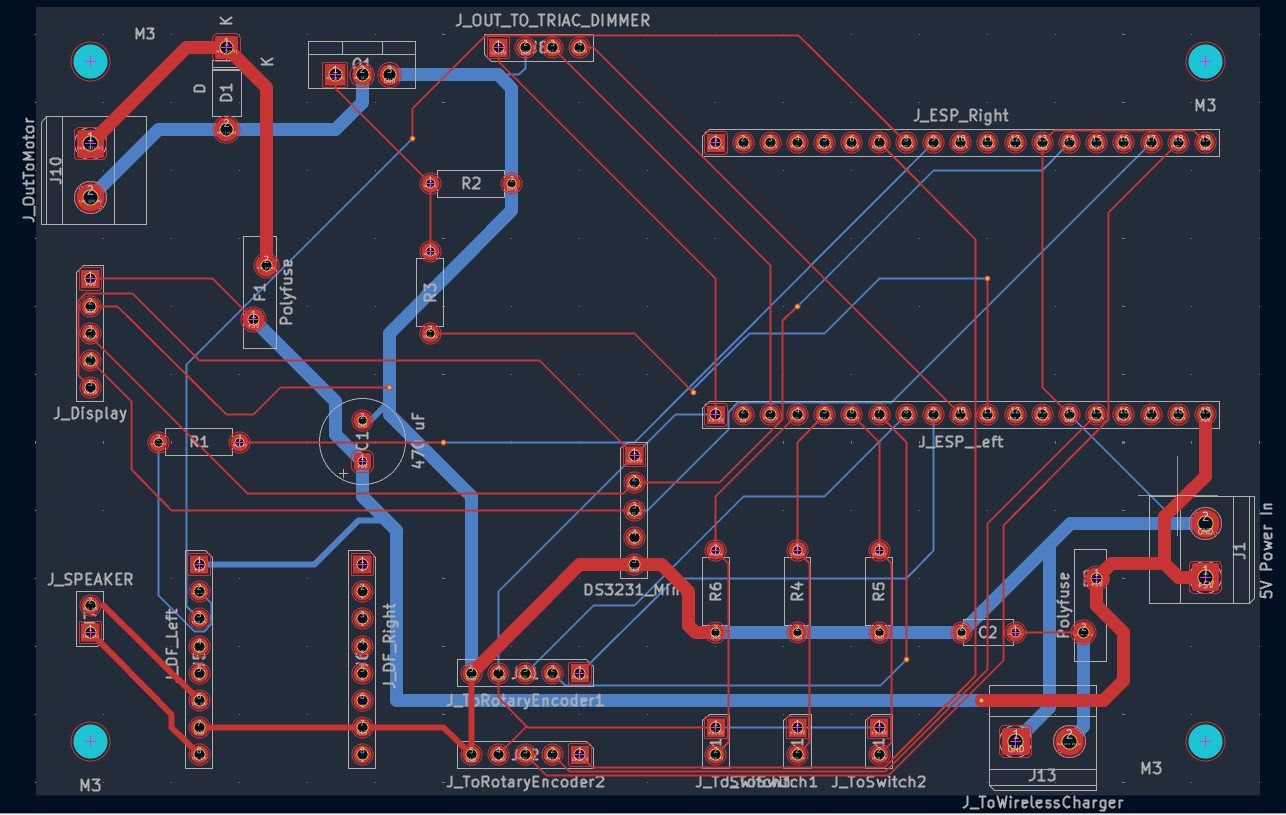
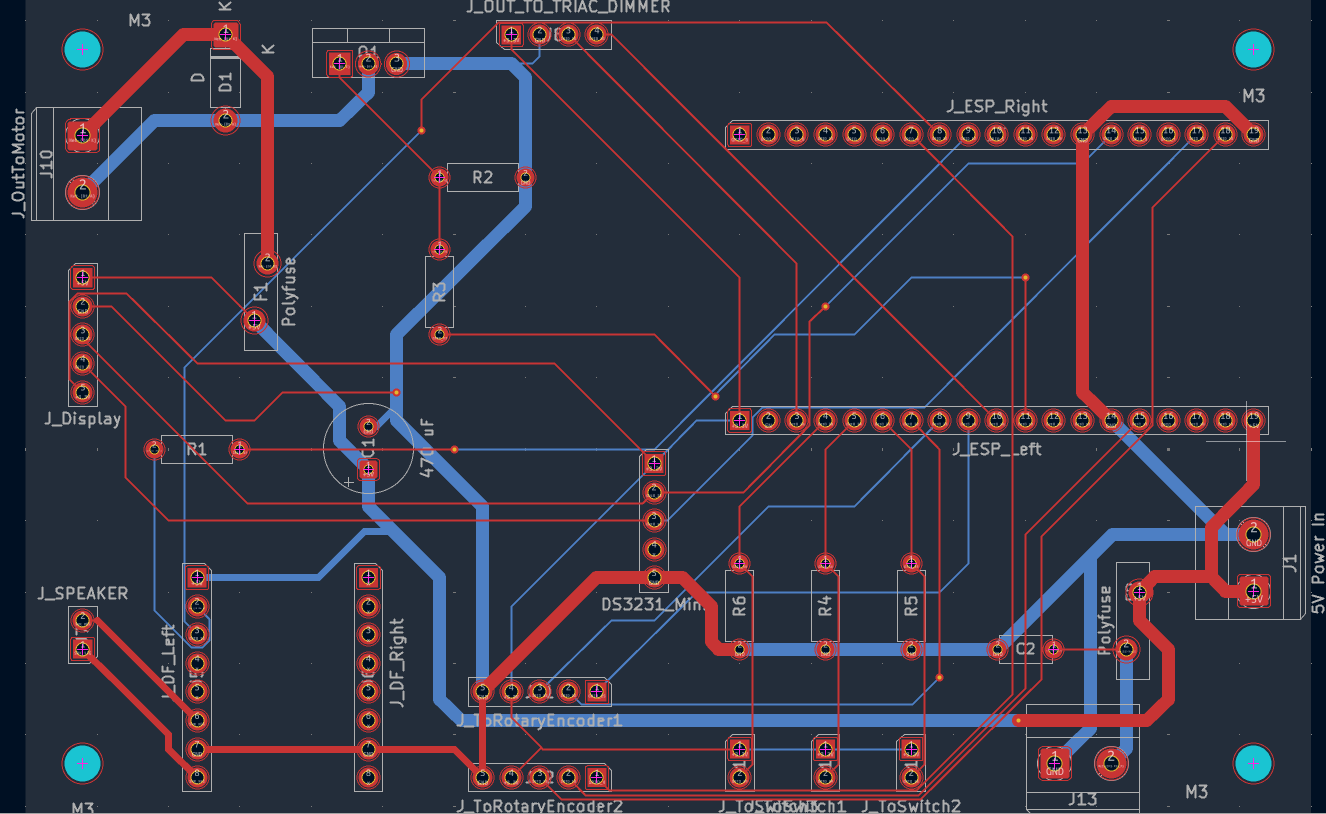
PCB trace thickness slightly modified, Bell motor contorl using mosfet and pwm added to gpio pin 27 - controlling led brightness to test, with the rotary encoder contorlling brightness and on/off

diff --git a/src/main.cpp b/src/main.cpp
@@ -1,23 +1,24 @@
 #include <Arduino.h>
 #include "TimeManager.h"
 #include "InputManager.h"
+#include "AlarmManager.h"
 
 TimeManager timeManager;
 InputManager inputManager;
+AlarmManager alarmManager;
 
 uint32_t lastPrintMillis = 0;
-int tempnum = 0; // Global variable so it accumulates across loop cycles
-int tempnum2 = 0; // Global variable so it accumulates across loop cycles
+int tempnum2 = 0;
 
 void setup() {
     Serial.begin(115200);
     delay(1000);
 
     Serial.println("\n==========================================");
-    Serial.println("  Sunrise Alarm Clock - Time & Input Test ");
+    Serial.println("  Sunrise Alarm Clock - Bell Driver Test  ");
     Serial.println("==========================================");
 
-    // Initialize TimeManager on hardware I2C pins (GPIO 21 SDA, GPIO 22 SCL)
+    // 1. Initialize TimeManager (DS3231 RTC on GPIO 21 SDA, GPIO 22 SCL)
     if (!timeManager.init(21, 22)) {
         Serial.println(" [ERROR] Failed to initialize TimeManager / DS3231! Check wiring.");
         while (1) {
@@ -26,53 +27,97 @@ void setup() {
     }
     Serial.println(" [+] TimeManager initialized successfully!");
 
-    // Initialize InputManager (attaches hardware interrupts to GPIO 25, 32, 33)
+    // 2. Initialize InputManager (Rotary Encoders on GPIO 25, 32, 33 and GPIO 4, 13, 23)
     inputManager.init();
     Serial.println(" [+] InputManager initialized successfully!");
+
+    // 3. Initialize AlarmManager (MOSFET Gate on GPIO 27)
+    alarmManager.init(27);
+    Serial.println(" [+] AlarmManager initialized on GPIO 27!");
+    Serial.printf(" [+] Default Bell PWM Duty Cycle: %d%% (~1.5V average from 5V)\n", alarmManager.getDutyPercent());
+
+    Serial.println("------------------------------------------");
+    Serial.println(" [Controls]:");
+    Serial.println("  - Dial DOWN to 0%: Turns OFF completely");
+    Serial.println("  - When OFF, Dial UP: Turns ON at minimum 5%");
+    Serial.println("  - Click Knob 1: Toggle ON (30%) / OFF");
+    Serial.println("  - Knob 2: General Temp Counter 2");
     Serial.println("------------------------------------------\n");
 }
 
 void loop() {
-    // Non-blocking update (polls RTC efficiently in the background)
+    // Non-blocking subsystem updates
     timeManager.update();
+    inputManager.update();
+    alarmManager.update();
 
-    // Print cleanly every 1 second
+    // ------------------------------------------------------------------------
+    // Rotary Encoder 1: Smooth "Dim-to-Off" and "Dial-Up to 5%" Logic
+    // ------------------------------------------------------------------------
+    int delta1 = inputManager.getEncoder1Delta();
+    if (delta1 != 0) {
+        if (!alarmManager.isBellActive()) {
+            // CURRENTLY OFF:
+            // If the user rotates clockwise (dial up), turn it ON at minimum (5%)
+            if (delta1 > 0) {
+                alarmManager.setDutyPercent(5);
+                alarmManager.startBell();
+                Serial.printf(" >>> [DIALED UP] Turned ON at lowest brightness: 5%% (~%.2f V)\n", 5.0 * 0.05);
+            }
+        } else {
+            // CURRENTLY ON:
+            int currentDuty = (int)alarmManager.getDutyPercent();
+            int newDuty = currentDuty + (delta1 * 5); // Step by 5%
+
+            if (newDuty <= 0) {
+                // User dialed all the way down to 0: turn OFF completely!
+                alarmManager.setDutyPercent(0);
+                alarmManager.stopBell();
+                Serial.println(" >>> [DIALED TO 0%] Reached 0% -> Turned OFF completely!");
+            } else {
+                // Normal adjustment between 5% and 100%
+                newDuty = constrain(newDuty, 5, 100);
+                alarmManager.setDutyPercent(newDuty);
+                Serial.printf(" >>> [DUTY ADJUSTED] %d%% (Effective: ~%.2f V from 5V bus)\n", 
+                              newDuty, 5.0 * (newDuty / 100.0));
+            }
+        }
+    }
+
+    // ------------------------------------------------------------------------
+    // Pushbutton 1: Toggle Bell Cadence (Manual ON/OFF toggle)
+    // ------------------------------------------------------------------------
+    if (inputManager.isButton1Clicked()) {
+        alarmManager.toggleBell();
+        Serial.printf(" *** [BUTTON 1 CLICKED] State: %s (Duty: %d%%) ***\n",
+                      alarmManager.isBellActive() ? "ACTIVE (Ringing/Pulsing)" : "OFF",
+                      alarmManager.getDutyPercent());
+    }
+
+    // ------------------------------------------------------------------------
+    // Rotary Encoder 2: Menu / General Counter Test
+    // ------------------------------------------------------------------------
+    int delta2 = inputManager.getEncoder2Delta();
+    if (delta2 != 0) {
+        tempnum2 += delta2;
+        Serial.printf(" >>> Temp num2: %d (Delta: %+d)\n", tempnum2, delta2);
+    }
+
+    if (inputManager.isButton2Clicked()) {
+        Serial.println(" *** [BUTTON 2 CLICKED] Knob 2 Pressed! ***");
+    }
+
+    // Periodic time heartbeat every 2 seconds
     uint32_t currentMillis = millis();
-    if (currentMillis - lastPrintMillis >= 1000) {
+    if (currentMillis - lastPrintMillis >= 2000) {
         lastPrintMillis = currentMillis;
 
-        Serial.printf("[TimeManager] Date: %s | Time: %s (%02d:%02d %s) | Temp: %.1f °C\n",
+        Serial.printf("[RTC LIVE] %s | Time: %s (%02d:%02d %s) | Bell: %s\n",
                       timeManager.getFormattedDate(),
                       timeManager.getFormattedTime(),
                       timeManager.getHour12(),
                       timeManager.getMinute(),
                       timeManager.isPM() ? "PM" : "AM",
-                      timeManager.getTemperature());
-    }
-
-    // Poll input manager for button debouncing and encoder ticks
-    inputManager.update();
-
-    // Read accumulated rotation delta
-    int delta = inputManager.getEncoder1Delta();
-    if (delta != 0) {
-        tempnum += delta; // Add or subtract whatever delta was turned!
-        Serial.printf(" >>> Temp num: %d (Delta: %+d)\n", tempnum, delta);
-    }
-
-    // Check if knob was pressed
-    if (inputManager.isButton1Clicked()) {
-        Serial.println(" *** [BUTTON CLICKED] Knob Pressed! ***");
-    }
-    // Read accumulated rotation delta
-    int delta2 = inputManager.getEncoder2Delta();
-    if (delta2 != 0) {
-        tempnum2 += delta2; // Add or subtract whatever delta was turned!
-        Serial.printf(" >>> Temp num2: %d (Delta: %+d)\n", tempnum2, delta2);
-    }
-
-    // Check if knob was pressed
-    if (inputManager.isButton2Clicked()) {
-        Serial.println(" *** [BUTTON2 CLICKED] Knob Pressed! ***");
+                      alarmManager.isBellActive() ? "ACTIVE" : "OFF");
     }
 }

diff --git a/src/AlarmManager.cpp b/src/AlarmManager.cpp
@@ -1,0 +1,89 @@
+/**
+ * ============================================================================
+ * @file AlarmManager.cpp
+ * @brief Implementation of the AlarmManager class for Bell Motor PWM control.
+ * ============================================================================
+ */
+
+#include "AlarmManager.h"
+
+AlarmManager::AlarmManager()
+    : _bellPin(27),
+      _bellActive(false),
+      _burstState(false),
+      _lastCadenceMillis(0),
+      _dutyPercent(30) {
+}
+
+void AlarmManager::init(uint8_t bellPin) {
+    _bellPin = bellPin;
+    pinMode(_bellPin, OUTPUT);
+    analogWrite(_bellPin, 0); // Ensure MOSFET Gate is grounded (OFF) on boot
+    _bellActive = false;
+    _burstState = false;
+}
+
+void AlarmManager::setDutyPercent(uint8_t percent) {
+    if (percent > 100) percent = 100;
+    _dutyPercent = percent;
+
+    // If currently actively in a burst, update the live output
+    if (_bellActive && _burstState) {
+        uint8_t pwmValue = (uint8_t)((_dutyPercent * 255) / 100);
+        analogWrite(_bellPin, pwmValue);
+    }
+}
+
+void AlarmManager::startBell() {
+    // If duty was previously dialed down to 0, restore default active level (30%)
+    if (_dutyPercent == 0) {
+        _dutyPercent = 5;
+    }
+
+    _bellActive = true;
+    _burstState = true;
+    _lastCadenceMillis = millis();
+
+    // Calculate 8-bit duty cycle (e.g. 30% of 255 = ~76)
+    uint8_t pwmValue = (uint8_t)((_dutyPercent * 255) / 100);
+    analogWrite(_bellPin, pwmValue);
+}
+
+void AlarmManager::stopBell() {
+    _bellActive = false;
+    _burstState = false;
+    analogWrite(_bellPin, 0); // Force MOSFET fully off
+}
+
+void AlarmManager::toggleBell() {
+    if (_bellActive) {
+        stopBell();
+    } else {
+        startBell();
+    }
+}
+
+void AlarmManager::update() {
+    if (!_bellActive) {
+        return;
+    }
+
+    uint32_t currentMillis = millis();
+
+    if (_burstState) {
+        // In ringing burst: check if burst duration has elapsed
+        if (currentMillis - _lastCadenceMillis >= BURST_DURATION_MS) {
+            _burstState = false; // Transition to pause
+            _lastCadenceMillis = currentMillis;
+            analogWrite(_bellPin, 0); // Turn off MOSFET for pause
+        }
+    } else {
+        // In rest pause: check if pause duration has elapsed
+        if (currentMillis - _lastCadenceMillis >= PAUSE_DURATION_MS) {
+            _burstState = true; // Transition back to ringing burst
+            _lastCadenceMillis = currentMillis;
+            uint8_t pwmValue = (uint8_t)((_dutyPercent * 255) / 100);
+            analogWrite(_bellPin, pwmValue); // Fire burst
+        }
+    }
+}

diff --git a/include/AlarmManager.h b/include/AlarmManager.h
@@ -1,0 +1,76 @@
+#pragma once
+
+#include <Arduino.h>
+
+/**
+ * ============================================================================
+ * @file AlarmManager.h
+ * @brief Subsystem Manager for Alarm Outputs (Bell Motor MOSFET & Audio).
+ * 
+ * Part of the ESP32 Sunrise Alarm Clock Project.
+ * 
+ * Features (Phase 1 - Motor Driver):
+ *  - PWM Voltage Chopping (~30% duty cycle) to step down 5V bus to ~1.5V
+ *    for safe operation of the mechanical twin-bell clapper motor without overheating.
+ *  - Non-blocking cadence timing (e.g. 2 seconds ringing, 1 second pause).
+ * ============================================================================
+ */
+class AlarmManager {
+public:
+    AlarmManager();
+
+    /**
+     * @brief Initialize the MOSFET motor driver pin.
+     * @param bellPin GPIO pin connected to the MOSFET gate (Default: GPIO 27).
+     */
+    void init(uint8_t bellPin = 27);
+
+    /**
+     * @brief Non-blocking state update method. Must be called regularly in loop().
+     * Handles cadence timing (alternating between ringing burst and rest pause).
+     */
+    void update();
+
+    // ========================================================================
+    // BELL MOTOR CONTROLS
+    // ========================================================================
+
+    /**
+     * @brief Start the mechanical bell ringing cadence.
+     */
+    void startBell();
+
+    /**
+     * @brief Stop the mechanical bell immediately and ensure PWM is 0.
+     */
+    void stopBell();
+
+    /**
+     * @brief Toggles between startBell() and stopBell(). Convenient for button testing.
+     */
+    void toggleBell();
+
+    /**
+     * @brief Check if the bell alarm is currently active.
+     */
+    bool isBellActive() const { return _bellActive; }
+
+    /**
+     * @brief Set the PWM chopping duty cycle percentage (0 - 100%).
+     * Nominal for the 1.5V-2.0V clapper motor from 5V is 30% - 35%.
+     */
+    void setDutyPercent(uint8_t percent);
+    uint8_t getDutyPercent() const { return _dutyPercent; }
+
+private:
+    uint8_t _bellPin;
+    bool _bellActive;           // Overall cadence active flag
+    bool _burstState;           // Currently in ringing burst (true) vs pause (false)
+    uint32_t _lastCadenceMillis;// Timestamp of last burst/pause transition
+    uint8_t _dutyPercent;       // Configured duty cycle (default: 30%)
+
+    // Cadence timing constants (in milliseconds)
+    const uint32_t BURST_DURATION_MS = 2000; // 2 seconds ringing burst
+    const uint32_t PAUSE_DURATION_MS = 1000; // 1 second rest pause
+};
+
